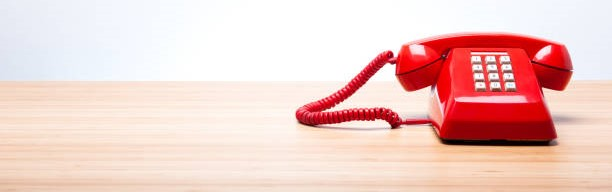
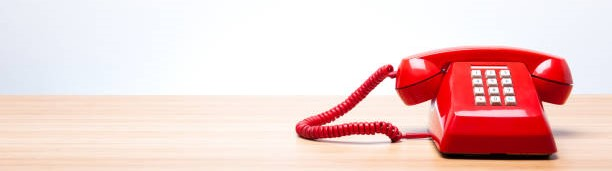
modified:   Images/Red_phone.jpg new file:   Images/Red_phone2.jpg modified:   index.html

diff --git a/index.html b/index.html
@@ -505,20 +505,20 @@
                         <br><br>
                         <div class="input-group">
                             <div class="form-floating mb-3">
-                                <input type="text" class="form-control" id="floatingInput"
-                                    placeholder="name@example.com" required>
+                                <input type="text" class="form-control" id="floatingInput" placeholder="First Name"
+                                    required>
                                 <label for="floatingInput" aria-required="true">First Name</label>
                             </div>
                             <div class="form-floating mb-3">
-                                <input type="text" class="form-control" id="floatingInput"
-                                    placeholder="name@example.com">
+                                <input type="text" class="form-control" id="floatingInput" placeholder="Last Name"
+                                    required>
                                 <label for="floatingInput" aria-required="true">Last Name</label>
                             </div>
                         </div>
                         <div class="input-group">
                             <div class="form-floating mb-3">
                                 <input type="email" class="form-control" id="floatingInput"
-                                    placeholder="name@example.com" required>
+                                    placeholder="Email@domain.com" required>
                                 <label for="floatingInput">Email address</label>
                             </div>
                             <div class="form-floating mb-3">
@@ -1343,7 +1343,7 @@
             <div class="modal-header">
                 <button type="button" class="btn-close" data-bs-dismiss="modal" aria-label="Close"></button>
             </div>
-            <img src="Images/Red_phone.jpg" alt="contact">
+            <img src="Images/Red_phone2.jpg" alt="contact">
             <div class="modal-body form-control">
                 <form class="form-control contact-form bg-white bg-opacity-25 border-dark border">
                     <label class="h4 ">Let us know how we can help by filling out the inquiry
@@ -1351,18 +1351,18 @@
                     <br><br>
                     <div class="input-group">
                         <div class="form-floating mb-3">
-                            <input type="text" class="form-control" id="floatingInput" placeholder="name@example.com"
+                            <input type="text" class="form-control" id="floatingInput" placeholder="First Name"
                                 required>
                             <label for="floatingInput" aria-required="true">First Name</label>
                         </div>
                         <div class="form-floating mb-3">
-                            <input type="text" class="form-control" id="floatingInput" placeholder="name@example.com">
+                            <input type="text" class="form-control" id="floatingInput" placeholder="Last Nma" required>
                             <label for="floatingInput" aria-required="true">Last Name</label>
                         </div>
                     </div>
                     <div class="input-group">
                         <div class="form-floating mb-3">
-                            <input type="email" class="form-control" id="floatingInput" placeholder="name@example.com"
+                            <input type="email" class="form-control" id="floatingInput" placeholder="Email@domain.com"
                                 required>
                             <label for="floatingInput">Email address</label>
                         </div>
